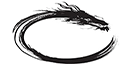
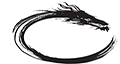
used img and png

diff --git a/src/App.jsx b/src/App.jsx
@@ -378,8 +378,7 @@ export default function App() {
               }}
             key={"0"+x+y} 
             id={"0"+x+y}
-            style={{background: `url(${square == 'X'? sword : square == "O" ? dragon : blank})`}}
-            className="square"></button>
+            className="square"><img src={square == 'X'? sword : square == "O" ? dragon : blank} width="100%" /></button>
 
           })
         })
@@ -407,8 +406,7 @@ export default function App() {
               }}
               key={"1"+x+y} 
               id={"1"+x+y}
-              style={{background: `url(${square == 'X'? sword : square == "O" ? dragon : blank})`}}
-              className="square"></button>
+              className="square"><img src={square == 'X'? sword : square == "O" ? dragon : blank} width="100%" /></button>
 
           })
         })
@@ -437,8 +435,7 @@ export default function App() {
 
               key={"2"+x+y} 
               id={"2"+x+y}
-              style={{background: `url(${square == 'X'? sword : square == "O" ? dragon : blank})`}}
-              className="square"></button>
+              className="square"><img src={square == 'X'? sword : square == "O" ? dragon : blank} width="100%" /></button>
 
           })
         })
